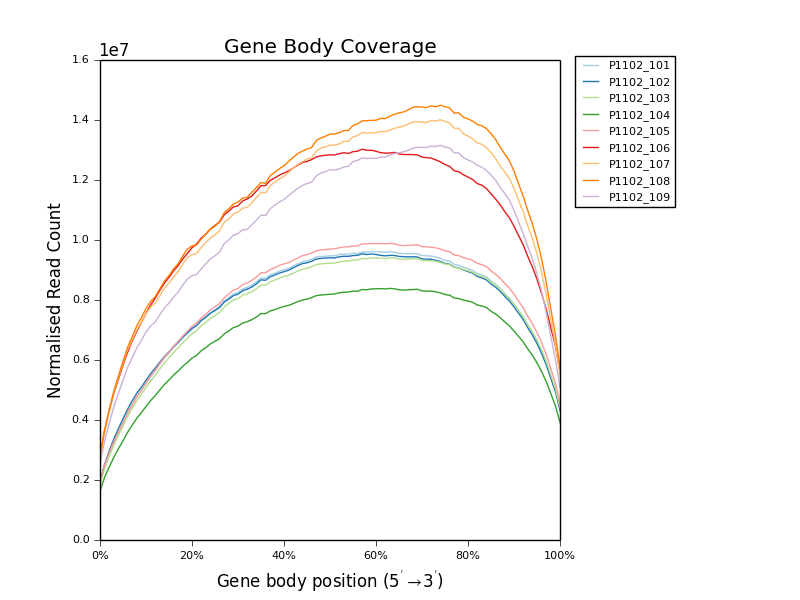
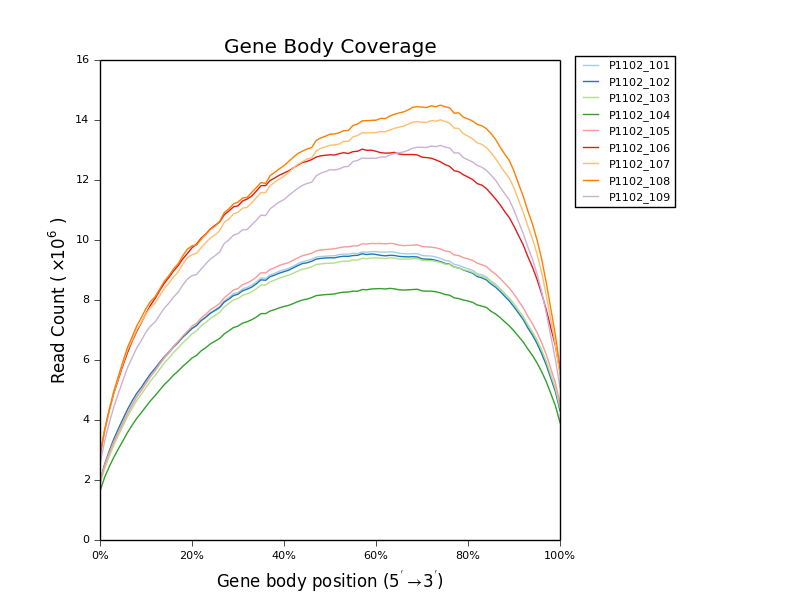
Changed y axis label so not to say normalised. Made axis show millions of reads.

diff --git a/gene_body_coverage/plot_gene_body_coverage.py b/gene_body_coverage/plot_gene_body_coverage.py
@@ -38,7 +38,7 @@ def plot_gene_body_coverage (coverage_files, output_fn='geneBodyCoverage'):
                     (percentile, count) = line.split(None, 1)
                     if percentile.isdigit() is False:
                         continue
-                    values[int(percentile)] = int(count)
+                    values[int(percentile)] = float(count) / 1000000
         except IOError as e:
             logging.error("Could not load input file: {}".format(fn))
             raise IOError(e)
@@ -55,8 +55,8 @@ def plot_gene_body_coverage (coverage_files, output_fn='geneBodyCoverage'):
     
     # Labels
     matplotlib.rcParams['mathtext.default'] = 'regular'
-    plt.xlabel("Gene body position ($5' \\rightarrow 3'$)")
-    plt.ylabel("Normalised Read Count")
+    plt.xlabel(r"Gene body position ($5' \rightarrow 3'$)")
+    plt.ylabel(r'Read Count ($\times 10^6$)')
     plt.title('Gene Body Coverage')
     
     # Legend
